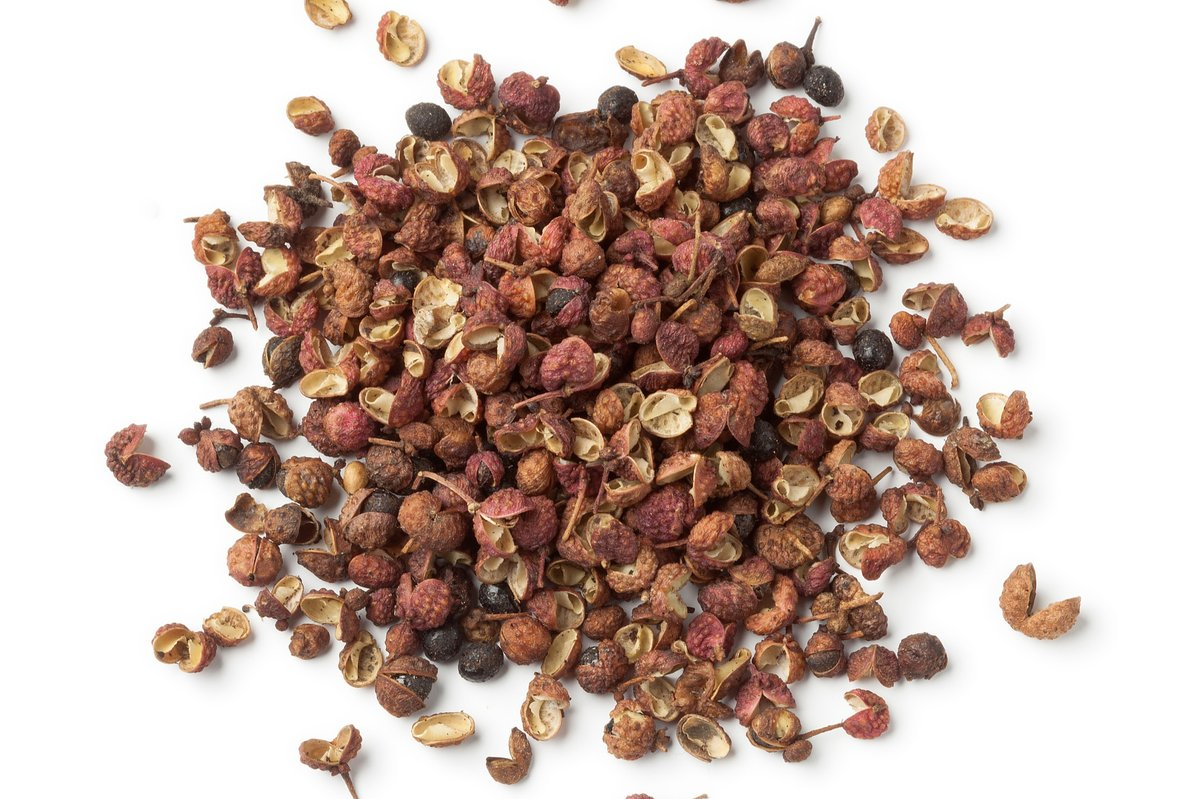
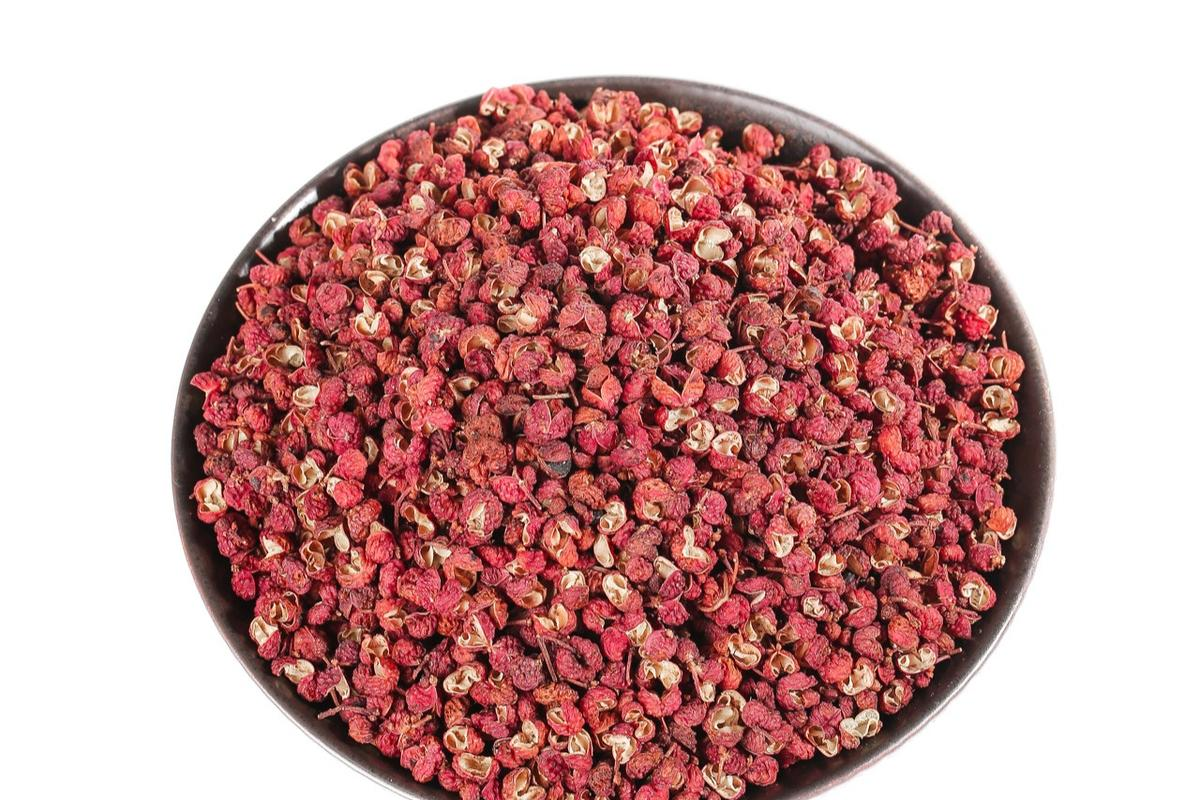
C03: add 8 spice images (花椒/八角/桂皮/丁香/草果/白芷/小茴香/沙姜)

diff --git a/cuisine/chinese-spices-101/index.html b/cuisine/chinese-spices-101/index.html
@@ -1,4 +1,4 @@
-<!doctype html><html lang=en><head><meta charset=UTF-8><meta name=viewport content="width=device-width,initial-scale=1"><title>Chinese Spices 101: The Eight Spices That Define a Thousand Dishes | zhouyang — The 25th Frame</title><meta name=description content="Sichuan peppercorn, star anise, cassia, cloves, and more — the eight spices that power Chinese cooking, how to use them, and what you can safely ignore."><link rel=canonical href=https://zhouyang.dev/cuisine/chinese-spices-101/><meta property="og:title" content="Chinese Spices 101: The Eight Spices That Define a Thousand Dishes | zhouyang — The 25th Frame"><meta property="og:description" content="Sichuan peppercorn, star anise, cassia, cloves, and more — the eight spices that power Chinese cooking."><meta property="og:url" content="https://zhouyang.dev/cuisine/chinese-spices-101/"><meta property="og:type" content="article"><meta property="og:site_name" content="zhouyang — The 25th Frame"><meta property="og:locale" content="en_US"><meta property="og:image" content="https://zhouyang.dev/images/spices-101-cover.jpg"><meta name=twitter:card content="summary_large_image"><meta name=twitter:title content="Chinese Spices 101: The Eight Spices That Define a Thousand Dishes | zhouyang — The 25th Frame"><meta name=twitter:description content="Sichuan peppercorn, star anise, cassia, cloves, and more — the eight spices that power Chinese cooking."><script type=application/ld+json>{"@context":"https://schema.org","@type":"Article","headline":"Chinese Spices 101: The Eight Spices That Define a Thousand Dishes","url":"https://zhouyang.dev/cuisine/chinese-spices-101/","datePublished":"2026-07-17T00:00:00+00:00","dateModified":"2026-07-17T00:00:00+00:00","author":{"@type":"Person","name":"zhouyang","url":"https://zhouyang.dev/about/"},"description":"Sichuan peppercorn, star anise, cassia, cloves, and more — the eight spices that power Chinese cooking, how to use them, and what you can safely ignore.","image":"https://zhouyang.dev/images/spices-101-cover.jpg"}</script><link rel=stylesheet href="/css/style.css?v=202607142309"><link rel=stylesheet href="/css/search.css?v=1"><script async src="https://pagead2.googlesyndication.com/pagead/js/adsbygoogle.js?client=ca-pub-2636431011760510" crossorigin=anonymous></script></head><body><header><nav><a href=/ class=logo>zhouyang — The 25th Frame</a><div class=nav-links><a href=/>Home</a>
+<!doctype html><html lang=en><head><meta charset=UTF-8><meta name=viewport content="width=device-width,initial-scale=1"><title>Chinese Spices 101: The Eight Spices That Define a Thousand Dishes | zhouyang — The 25th Frame</title><meta name=description content="Sichuan peppercorn, star anise, cassia, cloves, and more — the eight spices that power Chinese cooking, how to use them, and what you can safely ignore."><link rel=canonical href=https://zhouyang.dev/cuisine/chinese-spices-101/><meta property="og:title" content="Chinese Spices 101: The Eight Spices That Define a Thousand Dishes | zhouyang — The 25th Frame"><meta property="og:description" content="Sichuan peppercorn, star anise, cassia, cloves, and more — the eight spices that power Chinese cooking."><meta property="og:url" content="https://zhouyang.dev/cuisine/chinese-spices-101/"><meta property="og:type" content="article"><meta property="og:site_name" content="zhouyang — The 25th Frame"><meta property="og:locale" content="en_US"><meta property="og:image" content="https://zhouyang.dev/images/spices-101-cover.jpg"><meta name=twitter:card content="summary_large_image"><meta name=twitter:title content="Chinese Spices 101: The Eight Spices That Define a Thousand Dishes | zhouyang — The 25th Frame"><meta name=twitter:description content="Sichuan peppercorn, star anise, cassia, cloves, and more — the eight spices that power Chinese cooking."><script type=application/ld+json>{"@context":"https://schema.org","@type":"Article","headline":"Chinese Spices 101: The Eight Spices That Define a Thousand Dishes","url":"https://zhouyang.dev/cuisine/chinese-spices-101/","datePublished":"2026-07-17T00:00:00+00:00","dateModified":"2026-07-17T00:00:00+00:00","author":{"@type":"Person","name":"zhouyang","url":"https://zhouyang.dev/about/"},"description":"Sichuan peppercorn, star anise, cassia, cloves, and more — the eight spices that power Chinese cooking, how to use them, and what you can safely ignore.","image":"https://zhouyang.dev/images/spices-101-cover.jpg"}</script><link rel=stylesheet href="/css/style.css?v=202607142309"><link rel=stylesheet href="/css/search.css?v=1"><style>.spice-img{display:block;max-width:100%;height:auto;margin:20px 0;border-radius:8px}</style><script async src="https://pagead2.googlesyndication.com/pagead/js/adsbygoogle.js?client=ca-pub-2636431011760510" crossorigin=anonymous></script></head><body><header><nav><a href=/ class=logo>zhouyang — The 25th Frame</a><div class=nav-links><a href=/>Home</a>
 <a href=/posts/>Tech</a>
 <a href=/cuisine/>Chinese Cuisine</a>
 <a href=/tea/>Tea</a>
@@ -31,6 +31,8 @@
 
 <p><strong>No substitute.</strong> There is genuinely nothing else on earth that does what Sichuan peppercorn does. If a recipe calls for it and you don't have it, you're making a different dish.</p>
 
+<img src=/images/sichuan-peppercorn.jpg alt="Sichuan peppercorns" loading=lazy class=spice-img>
+
 <h3 id=star-anise>2. Star Anise (八角)</h3>
 
 <p>The eight-pointed star that smells like licorice and Christmas. Star anise is to Chinese braising what bay leaves are to French stews: you drop them in whole, let them infuse for hours, and fish them out before serving. The flavor is warm, sweet, and slightly medicinal — it's the backbone of five-spice powder and the defining note in hong shao rou (red-braised pork belly).</p>
@@ -40,6 +42,8 @@
 <p><strong>Goes with:</strong> Red-braised pork, beef noodle soup, soy sauce chicken, tea eggs, master stock. Any long-cooked meat dish.</p>
 
 <p><strong>Substitute:</strong> There isn't a perfect one. Fennel seed plus a tiny pinch of clove gets you in the neighborhood. But star anise is cheap and lasts forever — just buy it.</p>
+
+<img src=/images/star-anise.jpg alt="Star anise" loading=lazy class=spice-img>
 
 <h3 id=cassia>3. Cassia Cinnamon (桂皮)</h3>
 
@@ -53,6 +57,8 @@
 
 <p><strong>Substitute:</strong> The "cinnamon sticks" in your American pantry are probably cassia. Use them.</p>
 
+<img src=/images/cassia-cinnamon.jpg alt="Cassia cinnamon bark" loading=lazy class=spice-img>
+
 <h3 id=cloves>4. Cloves (丁香)</h3>
 
 <p>Cloves are the spice that punishes excess. One clove adds warmth and depth. Two cloves are a statement. Three cloves and your dish tastes like a dentist's office. If star anise is a bass line, clove is a cymbal crash — powerful, easy to overdo, essential in small doses.</p>
@@ -64,6 +70,8 @@
 <p><strong>Goes with:</strong> Master stock, soy sauce chicken, red-braised pork, spiced corned beef.</p>
 
 <p><strong>Substitute:</strong> Allspice, used sparingly. It won't taste the same, but it fills a similar structural role in a spice blend.</p>
+
+<img src=/images/cloves.jpg alt="Cloves" loading=lazy class=spice-img>
 
 <h3 id=tsaoko>5. Black Cardamom / Tsaoko (草果)</h3>
 
@@ -77,6 +85,8 @@
 
 <p><strong>Substitute:</strong> Black cardamom (the Indian kind). Not the same, but closer than anything else. If you can't find either, skip it — tsaoko adds complexity but isn't load-bearing in most recipes.</p>
 
+<img src=/images/tsaoko.jpg alt="Tsaoko — black cardamom pods" loading=lazy class=spice-img>
+
 <h3 id=bai-zhi>6. Angelica Root / Bai Zhi (白芷)</h3>
 
 <p>This is the spice you've never heard of that your favorite Chinese restaurant uses in everything. Bai zhi is a slice of dried root, pale ivory in color, that looks like a pressed autumn leaf. Its job is simple and specific: it removes undesirable smells from meat.</p>
@@ -88,6 +98,8 @@
 <p><strong>Goes with:</strong> Lamb stew, duck soup, pork rib soup, any dish where animal funk is an issue.</p>
 
 <p><strong>Substitute:</strong> Ginger does some of the same work, though less effectively. If you can't find bai zhi, increase the ginger and add a splash of Shaoxing wine.</p>
+
+<img src=/images/angelica-dahurica.jpg alt="Bai zhi — angelica root" loading=lazy class=spice-img>
 
 <h3 id=fennel>7. Fennel Seed (小茴香)</h3>
 
@@ -101,6 +113,8 @@
 
 <p><strong>Substitute:</strong> Anise seed (not star anise — the small green seeds). It's sweeter but plays the same role.</p>
 
+<img src=/images/fennel-seeds.jpg alt="Fennel seeds" loading=lazy class=spice-img>
+
 <h3 id=sand-ginger>8. Sand Ginger / Shan Nai (沙姜/山奈)</h3>
 
 <p>This is the "sand ginger" that caused the existential crisis in the grocery aisle. It is neither sand nor ginger. It's the dried rhizome of a plant in the ginger family, but it tastes nothing like the fresh ginger you buy in the produce section. Sand ginger is pungent, almost peppery, with a distinctive aroma that's hard to describe — imagine a cross between galangal and black pepper with a faint camphor note.</p>
@@ -112,6 +126,8 @@
 <p><strong>Goes with:</strong> White-cut chicken dipping sauce, char siu marinade, Cantonese roast duck, some versions of salt-baked chicken.</p>
 
 <p><strong>Substitute:</strong> Galangal, used sparingly. It's stronger and more citrusy but occupies a similar niche. If you can't find either, skip it — sand ginger is essential for a few specific Cantonese dishes but irrelevant to most home cooking.</p>
+
+<img src=/images/sand-ginger.jpg alt="Sand ginger" loading=lazy class=spice-img>
 
 <h2 id=how-to-use>How to Use Whole Spices</h2>
 